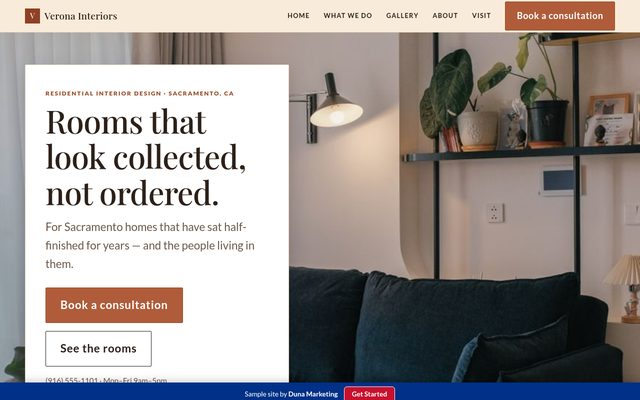
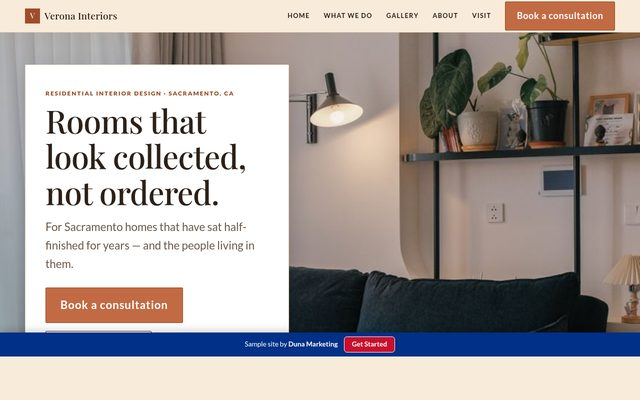
Verona: terracotta lightened one step across the family
Buttons to #C26A44 (old shade becomes hover), brand sections to
#A04B2B. All contrast gates still pass; thumbnail reshot.

Claude-Session: https://claude.ai/code/session_01D7xGmYAXgvAihBMPCkH7ye

Changed region(s): [[0.0, 0.81, 1.0, 1.0], [0.8125, 0.0, 0.9375, 0.06]]

diff --git a/portfolio/verona-interiors/css/tokens.css b/portfolio/verona-interiors/css/tokens.css
@@ -8,12 +8,12 @@
   --ink: #2C2019;              /* body text */
   --ink-muted: #6B5646;        /* secondary text */
   --line: #E5D3B8;             /* hairlines */
-  --brand: #8F4025;            /* 30: plum band, wordmark mark */
+  --brand: #A04B2B;            /* 30: plum band, wordmark mark */
   --on-brand: #F8EBDA;         /* on the plum band */
-  --accent: #B05C3A;           /* 10: the one accent — antique brass. Buttons only. */
-  --accent-hover: #96482C;     /* lighter brass on hover; on-accent ink still 8.37:1 */
+  --accent: #C26A44;           /* 10: the one accent — antique brass. Buttons only. */
+  --accent-hover: #B05C3A;     /* lighter brass on hover; on-accent ink still 8.37:1 */
   --on-accent: #FFFFFF;        /* dark ink on brass — 7.48:1. The accent is BRIGHT; never invert this. */
-  --accent-ink: #9A4A28;       /* darker brass for small text (raw --accent is 1.82:1 on --bg) */
+  --accent-ink: #96481F;       /* darker brass for small text (raw --accent is 1.82:1 on --bg) */
 
   /* --- derived (site-specific; no assigned token altered) --- */
   --accent-ink-alt: #6B4A07;    /* the brass step for small text on --bg-alt, where
